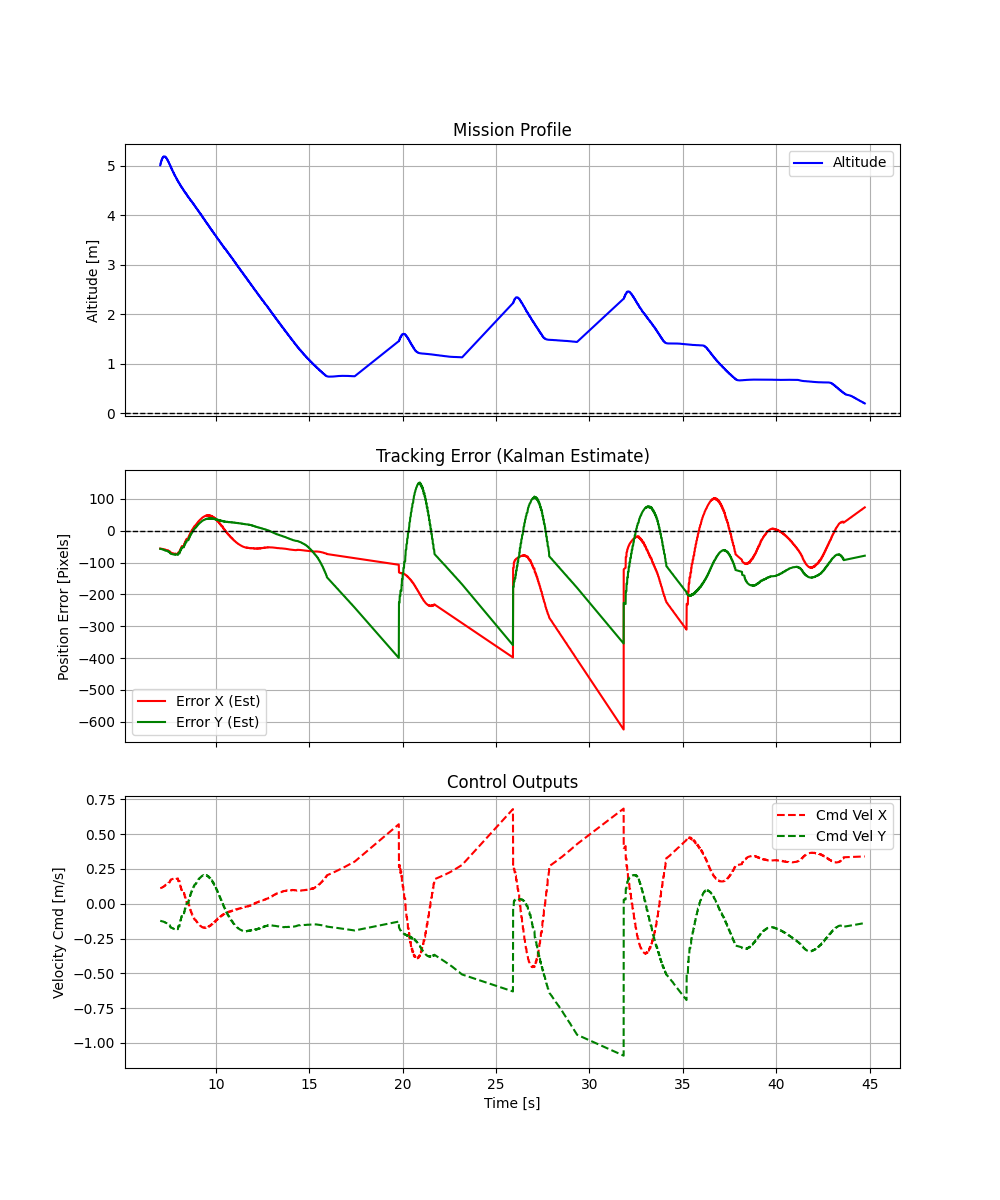
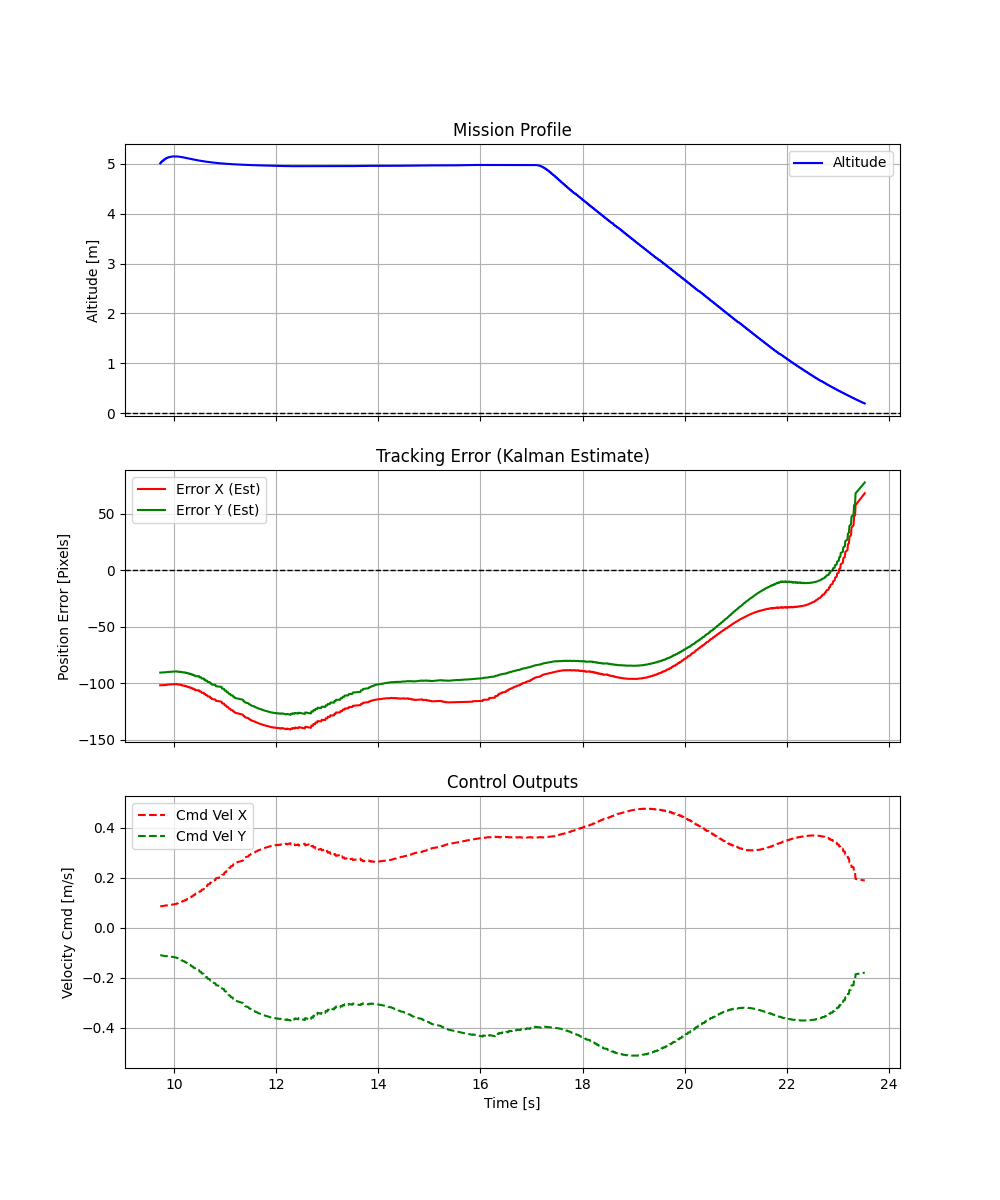
s

diff --git a/landing_controller.py b/landing_controller.py
@@ -134,7 +134,44 @@ def vision_callback(msg):
         shared_buffer.write(cx, cy, frame_display) 
     except Exception:
         pass
+def calculate_flight_stats(log_data):
+    # Convertiamo in array numpy
+    pos_x = np.array(log_data['pos_x_est'])
+    pos_y = np.array(log_data['pos_y_est'])
+    times = np.array(log_data['time'])
+    alts  = np.array(log_data['alt'])
 
+    # --- 1. CALCOLO TEMPO DI DISCESA PURO ---
+    # Trova l'altitudine massima raggiunta (il picco a fine decollo)
+    picco_alt = np.max(alts)
+    
+    # Trova tutti gli indici in cui il drone si trovava vicino al picco (es. entro 10 cm).
+    # Questo ci serve per ignorare la fase di "hovering" ad alta quota.
+    indici_hovering = np.where(alts >= picco_alt - 0.10)[0]
+    
+    # L'ultimo di questi indici è il momento esatto in cui inizia la discesa inarrestabile
+    idx_inizio_discesa = indici_hovering[-1]
+    
+    tempo_inizio_discesa = times[idx_inizio_discesa]
+    tempo_touchdown = times[-1]
+    
+    tempo_discesa_reale = tempo_touchdown - tempo_inizio_discesa
+
+    # --- 2. CALCOLO ERRORI FINALI (TOUCHDOWN) ---
+    ultimo_err_x = pos_x[-1]
+    ultimo_err_y = pos_y[-1]
+
+    # --- 3. STAMPA A SCHERMO ---
+    print("\n" + "="*40)
+    print(" STATISTICHE DI ATTERRAGGIO (DISCESA PURA) ")
+    print("="*40)
+    print(f"Altitudine di partenza discesa: {alts[idx_inizio_discesa]:.2f} m")
+    print(f"Tempo di decollo/hovering:      {tempo_inizio_discesa:.2f} s")
+    print(f"TEMPO DI DISCESA PURO:          {tempo_discesa_reale:.2f} s")
+    print("-" * 40)
+    print(f"Touchdown Err X:                {ultimo_err_x:.2f} px")
+    print(f"Touchdown Err Y:                {ultimo_err_y:.2f} px")
+    print("="*40 + "\n")
 # --- TELEMETRY BACKGROUND ---
 current_alt = 0.0
 async def telemetry_loop(drone):
@@ -225,8 +262,8 @@ async def run():
         est_y, est_vy = est_state[2][0], est_state[3][0]
         
         # --- Parallax Correction ---
-        CAMERA_OFFSET_Y = 0.05   # Camera forward of COM 
-        CAMERA_OFFSET_Z = 0.15   # Camera lower than COM 
+        CAMERA_OFFSET_Y = 0.04   # Camera forward of COM 
+        CAMERA_OFFSET_Z = 0.16   # Camera lower than COM 
         FOCAL_LENGTH    = 550.0 # Pixel ( 720p/1080p. If 640x480 use ~550)
 
         # 1. Calculate Effective Camera Altitude
@@ -273,12 +310,11 @@ async def run():
             #Damper is the scale of the calculated force, 
             # in this case we will use 40% of calculated, avoid shaking
                 # Gain Scheduling
-                dampener = np.clip((current_alt - 0.5) / 1.2, 0.40, 1)
+                dampener = np.clip((current_alt - 0.5) / 1.2, 0.4, 1.0)
                 max_speed_xy = np.clip(current_alt * 0.8, 0.55, 1.4)
-
                 # --- COMPLETE PID CALCULATION (P + I + D + FF) ---
                 # Calcoliamo PRIMA la soglia a imbuto per usarla in tutta la logica successiva.
-                cone_multiplier = np.interp(current_alt, [0.7, 2.0, TARGET_ALTITUDE], [1, 2.5, 2.5])
+                cone_multiplier = np.interp(current_alt, [0.7, 2.0, TARGET_ALTITUDE], [1.5, 1.5, 1])
                 current_align_thresh = ALIGN_THRESHOLD * cone_multiplier
                 is_aligned = (abs(est_x) < current_align_thresh and abs(est_y) < current_align_thresh)
 
@@ -333,7 +369,7 @@ async def run():
                 log_data['vel_y_cmd'].append(cmd_y)
                 log_data['target_visible'].append(1 if target_visible else 0)
                 if is_aligned:
-                    cmd_z = np.interp(current_alt, [0.25, 1.5], [0.2, 0.5])
+                    cmd_z = np.interp(current_alt, [0.25, 1.5], [0.5, 0.8])
                 else:
                     # Corrective hovering
                     cmd_z = 0.0 
@@ -416,6 +452,19 @@ if __name__ == "__main__":
         if 'time' in log_data and len(log_data['time']) > 0:
             print(f"Salvataggio dati ({len(log_data['time'])} punti)...")
             plot_results(log_data)
+            ultimo_alt = log_data['alt'][-1]
+            ultimo_err_x = log_data['pos_x_est'][-1]
+            ultimo_err_y = log_data['pos_y_est'][-1]
+            tempo_totale = log_data['time'][-1]
+            
+            print("\n" + "="*40)
+            print(" STATISTICHE AL TOUCHDOWN ")
+            print("="*40)
+            print(f"Tempo di volo totale:  {tempo_totale:.2f} s")
+            print(f"Altitudine finale:     {ultimo_alt:.2f} m")
+            print(f"Errore X finale:       {ultimo_err_x:.2f} px")
+            print(f"Errore Y finale:       {ultimo_err_y:.2f} px")
+            print("="*40 + "\n")
         else:
             print("Nessun dato registrato da plottare.")
             

diff --git a/REAL_landing.py b/REAL_landing.py
@@ -274,7 +274,7 @@ async def run():
         # 3. Application
         #If the camera is forward of the COM, the target appears shifted in the opposite direction of the movement, so we subtract the expected pixel offset from the estimated position to get a more accurate error for control.
         est_x = est_x
-        est_y = est_y + expected_pixel_offset
+        est_y = est_y
         
         # --- B. CONTROL ---
         cmd_x, cmd_y, cmd_z = 0.0, 0.0, 0.0
@@ -365,7 +365,7 @@ async def run():
                     log_data['target_visible'].append(1 if target_visible else 0)
                     log_data['battery'].append(current_battery)
                     if is_aligned:
-                        cmd_z = np.interp(current_alt, [0.25, 1.5], [0.2, 0.5])
+                        cmd_z = np.interp(current_alt, [0.25, 1.5], [0.5, 0.7])
                     else:
                         # Corrective hovering
                         cmd_z = 0.0 
